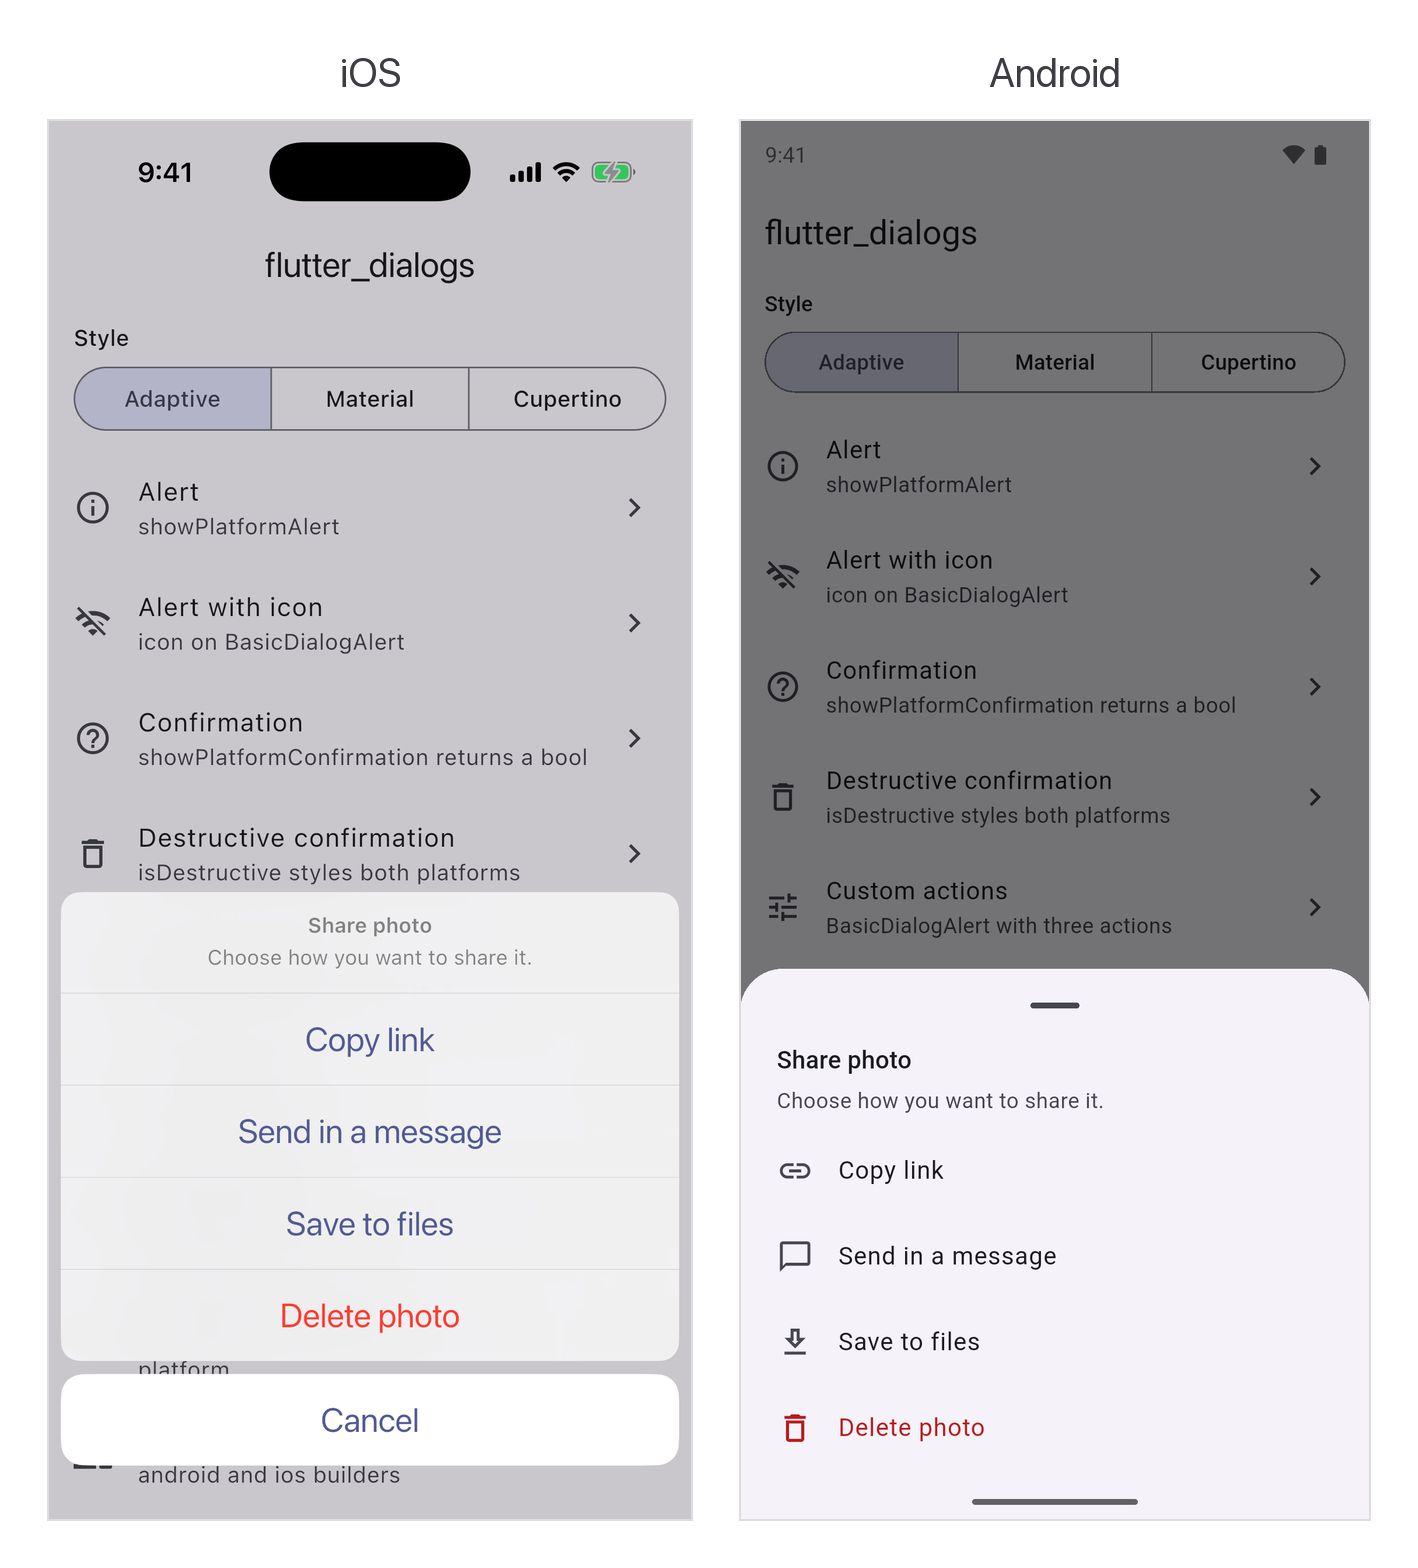
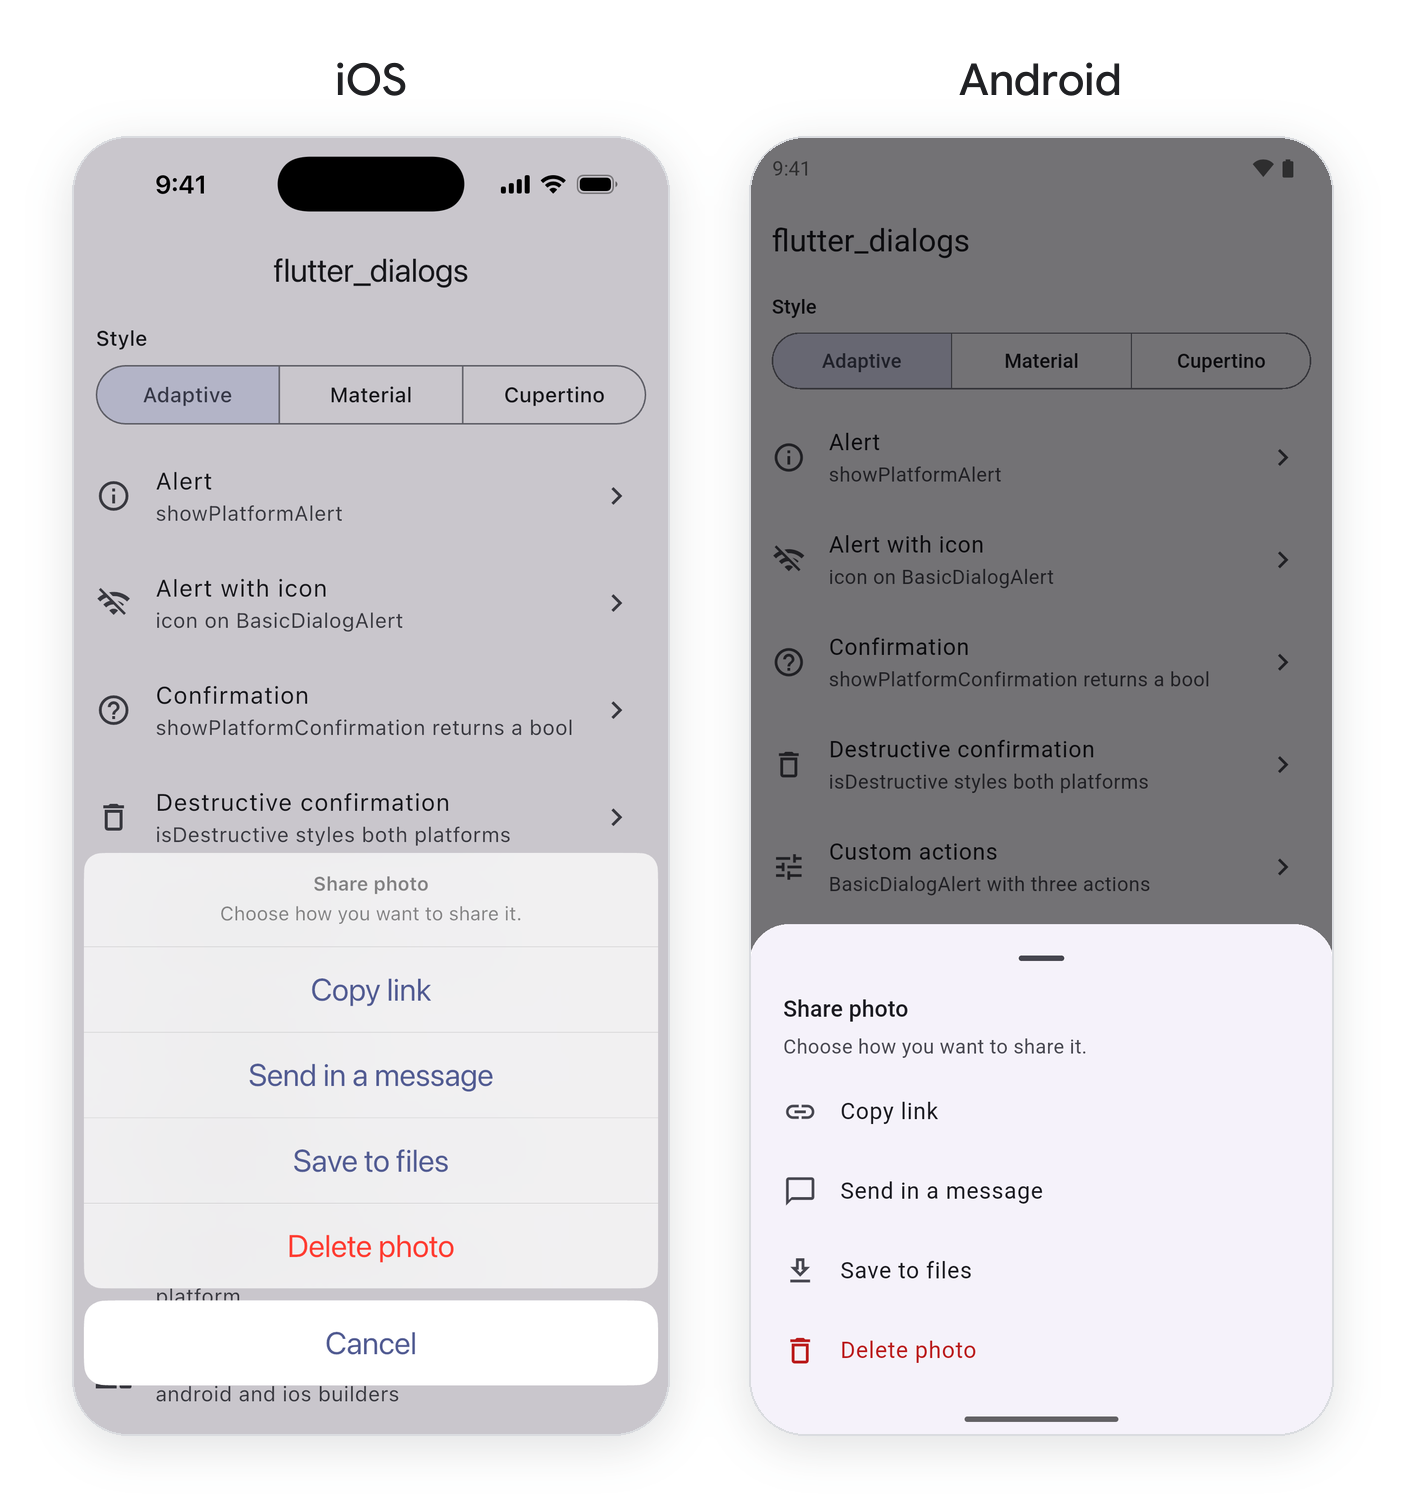
[docs] Replace README demos with real iOS and Android captures (#25)
* [docs] Replace README demos with real iOS and Android captures

Captured on an iPhone 17 Pro simulator and a Pixel 8a emulator with clean status bars. Composed side by side on a white background with Google Sans Flex labels.

* [chore] Bump version to 4.0.1

diff --git a/CHANGELOG.md b/CHANGELOG.md
@@ -1,3 +1,6 @@
+## [4.0.1] - November 20, 2026
+- Refresh the README and pub.dev screenshots with fresh iOS simulator and Android emulator captures.
+
 ## [4.0.0] - November 20, 2026
 - Support Dart 3 and current Flutter. The SDK constraint was `<3.0.0`, which blocked every Flutter release since 3.10.
 - Add `showPlatformAlert` and `showPlatformConfirmation`, which close themselves and return the result.
